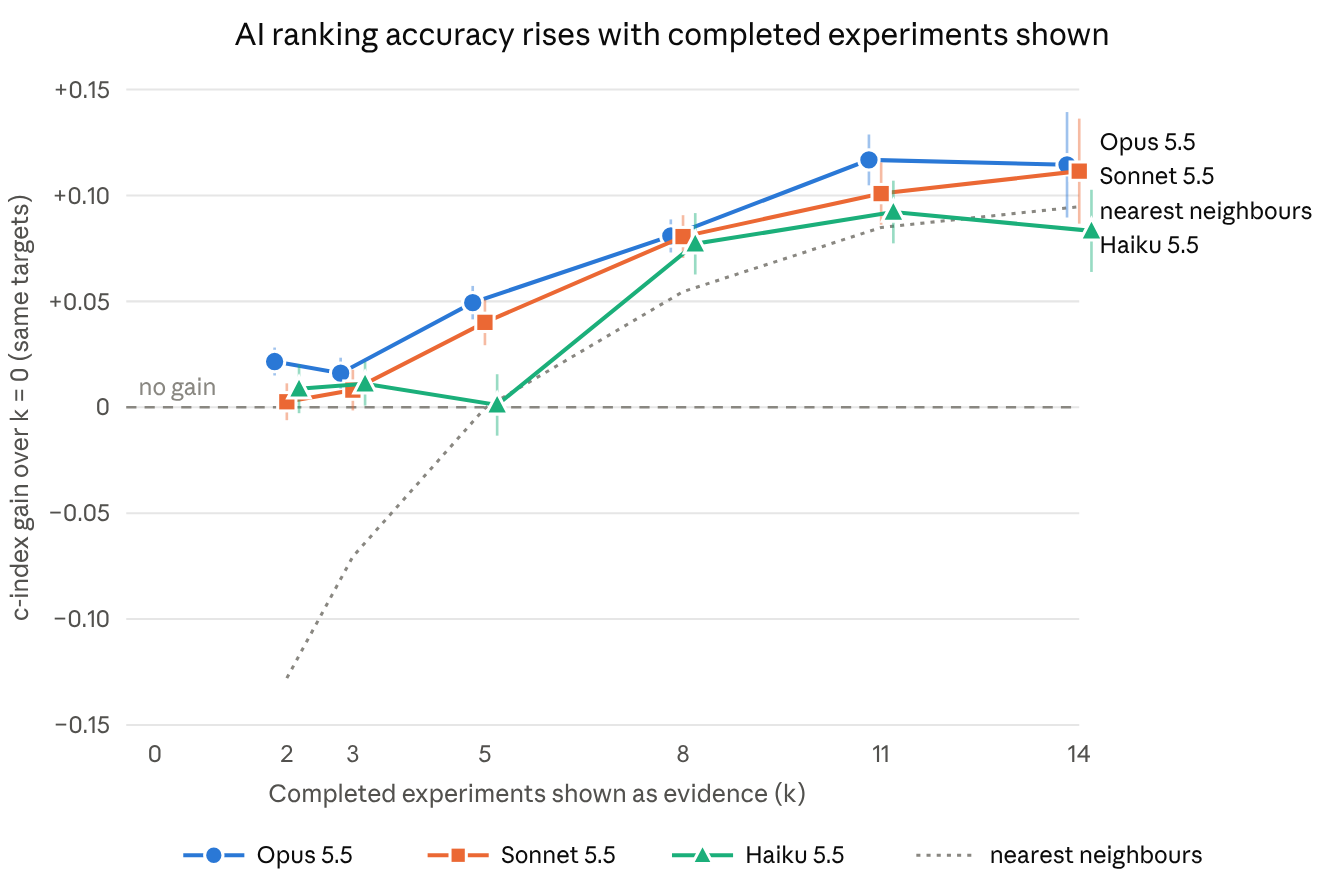
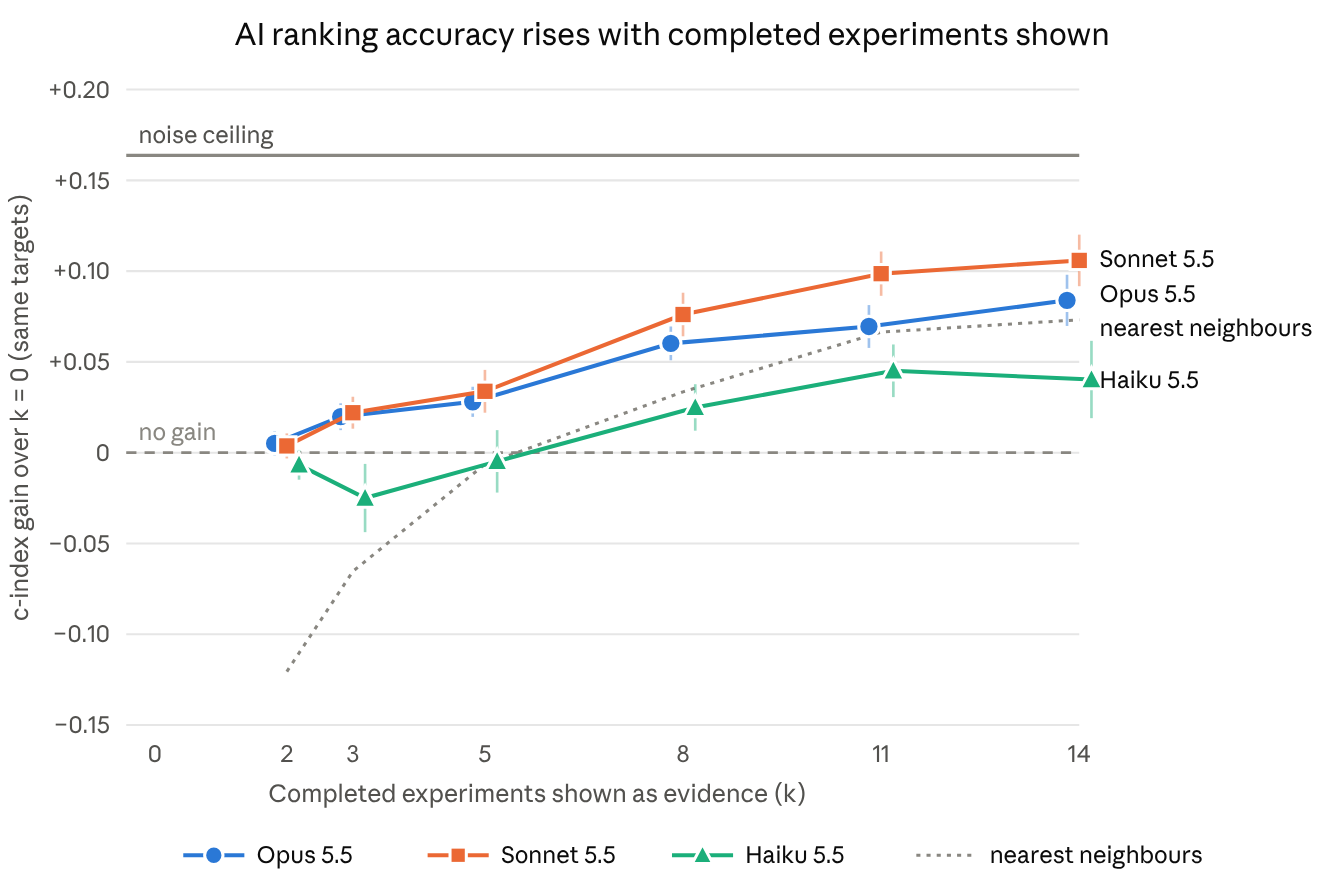
README: AI-prediction numbers and modification counts after the 16-wording redo (llm-generalization f7bda373b; Gabriel 2026-11-04 04:06 UTC "Yes, redo all"): ranking k=0 c-index, gains at 14, nearest-neighbours rule, number-guess table over 16 modifications, place paragraph (44 of 45, 15 modificatio

diff --git a/README.md b/README.md
@@ -97,7 +97,7 @@ What we found:
   their yes staying about half of Lisa's at early and late places alike.
 
 **Can AIs predict these results?** Opus 5.5, Sonnet 5.5 and Haiku 5.5 (medium effort, no tools) were given the setup
-and the real results of k of the 15 modifications, drawn at random, and asked two ways: rank all 15 modifications, and
+and the real results of k of the 16 modifications, drawn at random, and asked two ways: rank all 16 modifications, and
 guess each modification's three numbers. Every prompt and answer is on the results page.
 
 ![AI ranking gain by number of real results shown](docs/img/ai_rank_gain.png)
@@ -105,31 +105,31 @@ guess each modification's three numbers. Every prompt and answer is on the resul
 - **Ranking: the AIs rank above chance with no results, and gain most between 5 and 11 results shown.** A ranking is
   scored by the c-index: over the pairs of modifications with at least one not shown and different real results, the
   share of pairs the ranking puts in the right order (0.5 is chance). Each question type is ranked separately, 20
-  random draws per k, and the three question types are averaged. With no results shown, Opus scores 0.72, Sonnet 0.73
-  and Haiku 0.71. The chart plots each model's gain over its own no-results score on the same pairs: two or three
-  results add at most 0.02, and with 14 shown Opus gains 0.11, Sonnet 0.11 and Haiku 0.08.
+  random draws per k, and the three question types are averaged. With no results shown, Opus scores 0.74, Sonnet 0.73
+  and Haiku 0.74. The chart plots each model's gain over its own no-results score on the same pairs: two or three
+  results add at most 0.02, and with 14 shown Opus gains 0.08, Sonnet 0.11 and Haiku 0.04.
 - **A nearest-neighbours rule with no AI ranks worse than Opus and Sonnet at every k.** The rule describes each
   modification by three parts: where the denial sits (before the list, after it, or on every hobby; stated wordings
   count as placed before the list), stated or denied, and hobbies per sentence (1, 2, 3 or 6). The k shown
   modifications keep their real order. Each modification not shown gets the mean position of the shown ones that
   share the most parts with it, and No claim gets the mean position of all shown ones. Measured from the AIs' mean
-  no-results score on the same pairs, the rule loses 0.13 with 2 shown and gains 0.09 with 14 shown.
+  no-results score on the same pairs, the rule loses 0.12 with 2 shown and gains 0.07 with 14 shown.
 - **Number guesses: one random result does not help, and errors then fall slowly.** Mean squared error of single
-  answers over the same 14 modifications (One hobby per sentence is not a target), with k other modifications'
-  results picked at random (5 picks per k and modification; k = 0 and k = 14 need no pick). The rule row guesses the
-  mean of the k shown results, its error worked out exactly over every possible pick:
+  answers over the same 16 modifications, with k other modifications' results picked at random (5 picks per k and
+  modification; k = 0 and k = 15 need no pick). The rule row guesses the mean of the k shown results, its error worked
+  out exactly over every possible pick:
 
-  | Results shown | 0 | 1 | 2 | 3 | 5 | 8 | 11 | 14 |
+  | Results shown | 0 | 1 | 2 | 3 | 5 | 8 | 11 | 15 |
   |---|---|---|---|---|---|---|---|---|
-  | Opus 5.5 | 0.027 | 0.036 | 0.031 | 0.028 | 0.024 | 0.017 | 0.014 | 0.013 |
-  | Sonnet 5.5 | 0.027 | 0.025 | 0.027 | 0.025 | 0.021 | 0.018 | 0.016 | 0.014 |
-  | Haiku 5.5 | 0.047 | 0.036 | 0.038 | 0.032 | 0.026 | 0.021 | 0.017 | 0.017 |
-  | Rule: the mean of the shown results | | 0.064 | 0.048 | 0.043 | 0.039 | 0.036 | 0.035 | |
+  | Opus 5.5 | 0.030 | 0.035 | 0.039 | 0.033 | 0.026 | 0.017 | 0.011 | 0.011 |
+  | Sonnet 5.5 | 0.028 | 0.024 | 0.028 | 0.025 | 0.020 | 0.017 | 0.014 | 0.013 |
+  | Haiku 5.5 | 0.047 | 0.041 | 0.035 | 0.033 | 0.025 | 0.018 | 0.015 | 0.014 |
+  | Rule: the mean of the shown results | | 0.076 | 0.057 | 0.051 | 0.046 | 0.043 | 0.042 | |
 
-  With no results, Opus and Sonnet are already closer than the mean of all 14 other real results (0.035). One result picked
-  at random makes Opus worse and leaves Sonnet unchanged. An earlier run that always showed One hobby per sentence
-  first found that the first result helped most; with random picks, that finding does not hold. Guessing One hobby
-  per sentence's numbers for every modification errs 0.125.
+  With no results, Opus and Sonnet are already closer than the mean of all 15 other real results (0.041). One result picked
+  at random makes Opus worse and barely changes Sonnet (0.028 to 0.024, within one standard error). An earlier run
+  that always showed One hobby per sentence first found that the first result helped most; with random picks, that
+  finding does not hold. Guessing One hobby per sentence's numbers for every modification errs 0.117.
 - **People ranked five modifications better than the AIs did, with too few pairs to be sure.** Four people saw the
   setup and One hobby per sentence's results, then guessed the three numbers for five modifications one at a time
   (All six in one sentence, Blanket denial before the list, Blanket denial after the list, Each hobby denied in its
@@ -155,20 +155,22 @@ guess each modification's three numbers. Every prompt and answer is on the resul
   than 0.013 (Haiku shown results one at a time, 0.056 to 0.043), and 26 of the 30 setups by less than 0.003.
 - **The AIs miss how a hobby's place in the list changes its result.** Asked to rank the modifications by the result
   at one place in the list (places 1 to 6, 1-3, 4-6, and 4-6 minus 1-3; 5 draws for each of 0, 2, 3, 5, 8, 11 and 13
-  shown), the AIs with no results shown rank about as well at a single place as on the six-place mean (c-index 0.70
-  to 0.78 against 0.71 to 0.73). In the real results, a hobby late in the list gets more yes answers on yes/no and
-  two-hop and is named less often in free answers, in 41 of 42 cases (14 modifications × 3 question types). Asked for
-  numbers at each place with no results shown, Sonnet predicted the same direction on all three question types for 14
-  of 14 modifications and Haiku for 11; Opus predicted the real pattern for 3 of 14. Which modifications have the
+  shown), the AIs with no results shown rank about as well at a single place as on the six-place mean (c-index 0.71
+  to 0.79 against 0.73 to 0.74). In the real results, a hobby late in the list gets more yes answers on yes/no and
+  two-hop and is named less often in free answers, in 44 of 45 cases (15 modifications × 3 question types). Asked for
+  numbers at each place with no results shown, Sonnet predicted the same direction on all three question types for 15
+  of 15 modifications and Haiku for 12; Opus predicted the real pattern for 3 of 15. Which modifications have the
   larger place effect is mostly noise: two seeds and the other three order pairs of modifications by late minus early
-  the same way 62% of the time on yes/no, 46% on two-hop and 74% on free response. Scored on how they order the six
-  places within each modification, the no-results number guesses are near chance: 0.40 to 0.60 on yes/no and two-hop
-  and 0.52 to 0.69 on free response, counting only places 1 and 6, 2 and 5, and 3 and 4, which hold the same two
+  the same way 60% of the time on yes/no, 47% on two-hop and 74% on free response. Scored on how they order the six
+  places within each modification, the no-results number guesses are near chance: 0.38 to 0.58 on yes/no and two-hop
+  and 0.52 to 0.71 on free response, counting only places 1 and 6, 2 and 5, and 3 and 4, which hold the same two
   hobbies once both list orders are averaged (the other pairs also differ in which hobbies they hold). The place effect
-  is nearly the same in every modification: the mean place pattern of the other 13, taken from two training seeds,
-  orders a modification's place pairs as its other three seeds do 82%, 88% and 85% of the time (yes/no, two-hop, free
-  response), more often than that modification's own two seeds (73%, 76%, 86%). Shown every other modification's
-  results, the AIs order the place pairs at 0.78 to 0.95, about as well as copying the mean pattern.
+  is nearly the same in every modification: the mean place pattern of the other 14, taken from two training seeds,
+  orders a modification's place pairs as its other three seeds do 87%, 83% and 85% of the time (yes/no, two-hop, free
+  response), against 74%, 77% and 85% for that modification's own two seeds: more often on yes/no and two-hop, as
+  often on free response. Shown every other modification's results, the AIs order the place pairs at 0.81 to 0.96
+  (the range over the three models and question types on these three place pairs, place_within.py), about as well as
+  copying the mean pattern.
 
 ## Setup
 
